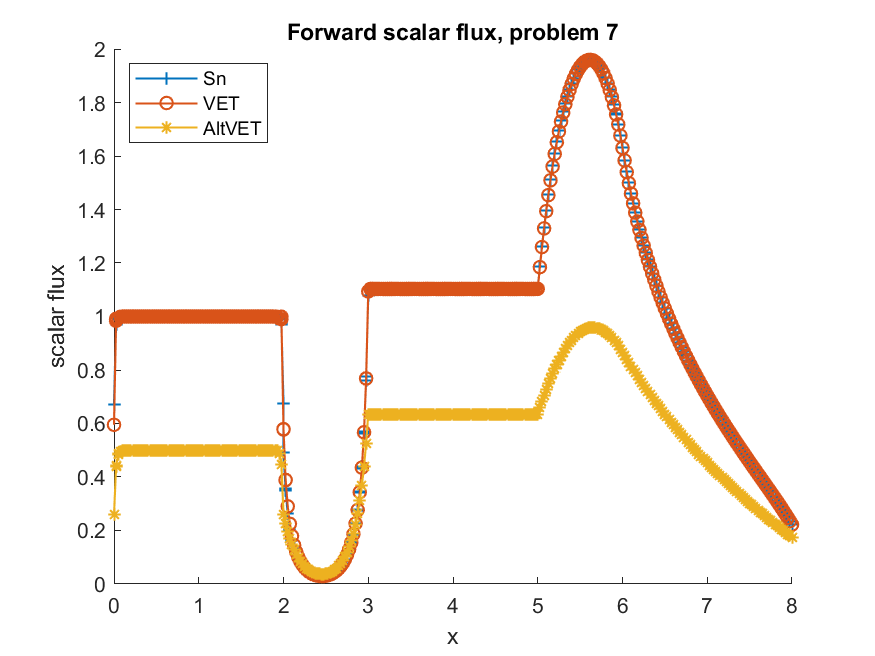
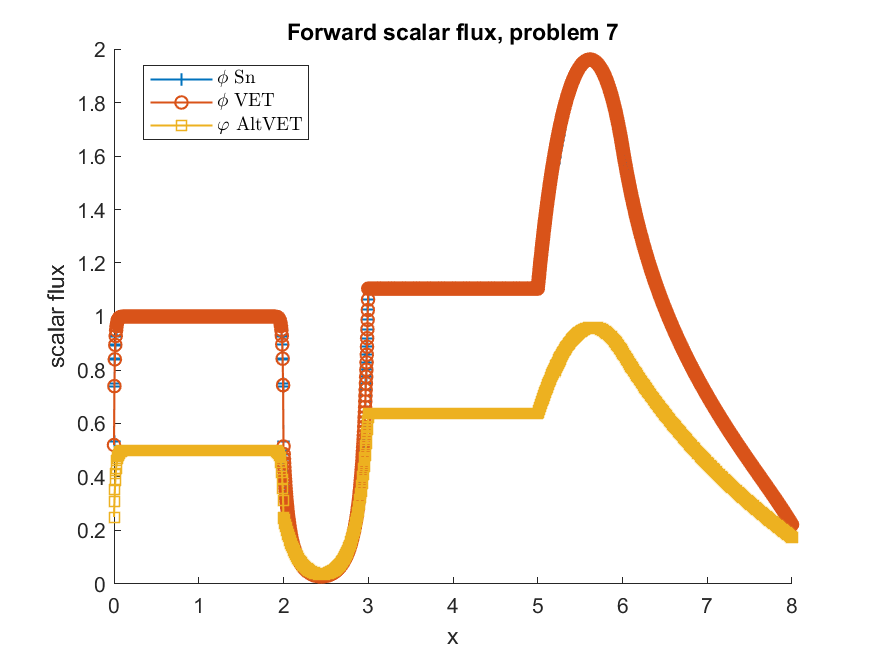
Resoved some comments, added in information and figure to layout flow of thesis, first crack at explaining solution methods used

Changed region(s): [[0.1234, 0.0915, 0.9257, 0.8841], [0.1543, 0.0915, 0.3394, 0.2134], [0.8023, 0.5793, 0.8331, 0.6402]]

diff --git a/docs/Thesis/QoI_Thesis.tex b/docs/Thesis/QoI_Thesis.tex
@@ -242,17 +242,29 @@ A potential solution to the memory requirement for the time-dependent transport 
 
 \jcr{at some point, you need to say: This Thesis is organized as follows: in Chapter xx, we discuss blabla. ...... FORESHADOW}
 
+
+In this work the typical transport adjoint method is formulated and the inner products required for sensitivity calculations are derived. Then a quasi-diffusion formulation is taken of the transport equation. This quasi-diffusion approach then undergoes an adjoint treatment to derive sensitivity inner products that do not require storing any angular fluxes. As a final method, a quasi-diffusion formulation is taken of the adjoint transport equation and a similar approach is taken in an attempt to derive anotehr set of inner products to use for sensitivity. Thee three regimes and the relation between them are shown in Figure~\ref{roadmap} 
+
+\begin{figure}[H]
+\label{roadmap}
+\centering
+  \includegraphics[scale=0.6]{figures2/RoadMap.png}
+  \caption{Diagram showing relations between various formulations in this thesis.}
+\end{figure}
+
+
 %%%%%%%%%%%%%%%%%%%%%%%%%%%%%%%%%%%%%%%%%%%%%%%%%%%%%%%%%%%%%%%%%%%%%%%%%%%%%%%%%%%%%%%%%%%
 \chapter{\uppercase {Background (Transport)}}
 %%%%%%%%%%%%%%%%%%%%%%%%%%%%%%%%%%%%%%%%%%%%%%%%%%%%%%%%%%%%%%%%%%%%%%%%%%%%%%%%%%%%%%%%%%%%%%%%%%%%
 \jcr{foreshadow: what is this chapter about? what will you discuss in the various sections ...?}
-%%%%%%%----------------------------------------------------------------------------------------------
-\section{Steady-state One-group Neutron Transport Equation}
-%%%%%%%----------------------------------------------------------------------------------------------
+
 \jcr{the first sentences actually need to go before the section. according to the section's title, this should be about the SS 1-g transport, not why you are looking at that model. that must come before. I am adding new lines to make it obvious where the break needs to be.}
 \jcr{is this the first time you use the term quasi-diffusion? if so, it clearly needs to be defined before, maybe in the introduction chapter}
 This work will focus on a relatively simple transport equation form, the one-group steady-state transport equation. Examination of effectiveness of an adjoint formalism using the quasi-diffusion approximation instead of the full transport solution in this setting will provide insight to the advantages and shortcomings of the technique when applied to multigroup, time-dependent transport equation. \jcr{you must mention that the appendix xyz contains a derivation of the time-dependent version approach where we think VET could be useful}
 
+%%%%%%%----------------------------------------------------------------------------------------------
+\section{Steady-state One-group Neutron Transport Equation}
+%%%%%%%----------------------------------------------------------------------------------------------
 
 The one-group steady-state transport equation with isotropic sources and isotropic scattering for a volume $V$ bounded by its surface $\partial V$ is given below.
 \begin{equation}
@@ -278,7 +290,9 @@ Frequently, the solution to the transport equation is not the sought after value
 \begin{equation}
 \qoi =  \int_V dV \int_{4 \pi} d \vO \,  R(\vr, \vO) \psi(\vr, \vO)
 \end{equation}
-The response function $R$ can take on physically defined forms, such as the cross section of a detector; or it may take a form of a mathematical construct, such as $R(\vr, \vO)=1/v$ to return the total number of neutrons present in the system. Another example is to let $R(\vr, \vO)=\sigma \chi(\vr)$ to obtain the total \tcr{reactor} in a portion of the domain ($\chi(\vr)=1$ if $\vr \in$ region of interest, and 0 otherwise). Note that the response function will frequently be expressed as $q^\dag$, the adjoint source, as we have already noted that there is a relationship between the solution, the adjoint solution, and their respective source terms. 
+The response function $R$ can take on physically defined forms, such as the cross section of a detector; or it may take a form of a mathematical construct, such as $R(\vr, \vO)=1/v$ to return the total number of neutrons present in the system. Another example is to let $R(\vr, \vO)=\sigma \chi(\vr)$ to obtain the total reaction rate in a portion of the domain ($\chi(\vr)=1$ if $\vr \in$ region of interest, and 0 otherwise). Note that the response function will frequently be expressed as $q^\dag$, the adjoint source, as we have already noted that there is a relationship between the solution, the adjoint solution, and their respective source terms. 
+
+\iwh{I didn't understand the single comment above, I this is was a weird typo that ended up a comment.}
 
 Two volumetric inner products are defined using  the $\braSN \bullet , \bullet \ketSN$ and $\bra \bullet , \bullet \ket$ notations. These two inner-products are for use with angular and scalar fluxes, respectively. 
 \begin{subequations}
@@ -333,7 +347,10 @@ as $\mathbf{A^\dag} \psi^\dag = q^\dag$, leading to an alternate expression of t
 adjoint solution $\psi^\dag $.
 \begin{equation}
 \label{genAdjQoI}
-\qoi = \braSN \psi, \scalResp \ketSN = \braSN q , \psi^\dag \ketSN + BC
+\qoi = \braSN \psi, \scalResp \ketSN 
+= \braSN \psi, \mathbf{A^\dag} \psi^\dag \ketSN 
+= \braSN \mathbf{A} \psi, \psi^\dag \ketSN + BC
+= \braSN q , \psi^\dag \ketSN + BC
 \end{equation} 
 From the above \jcr{what? where? there was no actual rigorous derivation above}, it follows that a first-order approximation to the change in the quantity of interest ($\delta \qoi$)
 based on perturbations to the initial system, including perturbation to the forward 
@@ -590,8 +607,9 @@ where the new boundary inner product for use with VET is defined as
 \begin{equation}
 \sbra \phi(\vr) , g(\vr)  \sket = \int_{\partial V} dS \, \phi (\vr) g (\vr)  \,.
 \end{equation}
-Note that we used the fact that the Eddington tensor is symmetric, $\Edd^T=\Edd$.
+A more detailed derivation of the boundary terms is given in appendix B. Note that we used the fact that the Eddington tensor is symmetric, $\Edd^T=\Edd$.
 \jcr{can you verified on the side, say for 2d $xy$ that the integration by parts does yield the boundary terms. I am worried about the successive $\cdot$'s.}
+\iwh{OK, I threw it in an appendix, I can just remove it if you think it is too extraneous} 
 This leads to the adjoint equation of the VET formulation, given in Eq.~\eqref{adjForm}. Of particular note is that the double divergence term present in the forward equation contributes to a double gradient term in the adjoint equation below. The VET adjoint solution is represented by $\vefadj$ to avoid confusion with $\phi^\dag$, which is the adjoint scalar flux from the SN transport  method. 
 
 \begin{equation}
@@ -641,9 +659,17 @@ As was done for the transport formulation, we consider perturbations to the syst
 the Eddington tensor may be altered as well. Because the Eddington tensor is an integrated quantity, we conjecture that it is 
 less prone to perturbations. The effects of perturbations on $\Edd$ are considered later.
 
-The perturbed VET forward problem is given below. A mean free path notation $\isigt=\frac{1}{\sigt}$ is used for the total
-cross section to allow the $\delta$ notation to be used in a straightforward fashion.
+A total mean free path notation $\isigt=\frac{1}{\sigt}$ is used for the total cross section to allow the $\delta$ notation to be used in a straightforward fashion. The relation between $\delta \isigt$ and $\delta \sigt$ is shown. 
+\begin{equation}
+\begin{split}
+\delta \isigt  = \ell_{t,p} - \isigt 
+ = \frac{1}{\sigt + \delta \sigt} - \frac{1}{\sigt} 
+ %= \frac{\sigt - (\sigt + \delta \sigt)}{\sigt (\sigt + \delta \sigt) } 
+ = \frac{ - \delta \sigt}{\sigt^2 + \sigt ( \delta \sigt) } 
+\end{split}
+\end{equation}
 \jcr{you end up with a formula that has $\delta \ell_t$. However, I have no idea how $\delta \ell_t$ is related to $\delta \sigt$. To clarify you must spell this out. It is also important when you will be doing perturbations and comparing SN and VET. People need to understand how the 2 detla's are related}
+The perturbed VET forward problem is given below.
 \begin{subequations}
 \begin{equation}
 \label{VEFPert}
@@ -669,12 +695,15 @@ A first-order perturbation approximation of Eq.~\eqref{VEFPert}
 \begin{equation}
 \label{QoIVETAdjNoBC}
 \begin{split}
-\qoi_p =& \bra \scalSource + \delta \scalSource + \div \delta \isigt \div \left( \Edd \phi_p \right) - \delta \siga \phi_p, \vefadj \ket - \sbra \phi_p, \Edd \cdot \isigt \grad \vefadj \sket + \sbra \vefadj, \isigt \div \Edd \phi_p \sket \\
-=& \bra q, \vefadj \ket  + \bra \delta \scalSource + \div \delta \isigt \div \left( \Edd \phi_p \right)  - \delta \siga \phi_p, \vefadj \ket \\
-& - \sbra \phi_p, \Edd \cdot \isigt \grad \vefadj \sket + \sbra \vefadj, \isigt \div \Edd \phi_p \sket 
+\qoi_p =& \bra \scalSource + \delta \scalSource + \div \delta \isigt \div \left( \Edd \phi_p \right) - \delta \siga \phi_p, \vefadj \ket - \sbra \phi_p, \vn \cdot \left(  \Edd \cdot \isigt \grad \vefadj \right) \sket \\ 
+&+ \sbra \vefadj, \vn \cdot \left(  \isigt \div \Edd \phi_p \right) \sket \\
+\approx & \bra q, \vefadj \ket  + \bra \delta \scalSource + \div \delta \isigt \div \left( \Edd \phi \right)  - \delta \siga \phi, \vefadj \ket \\
+& - \sbra \phi_p, \vn \cdot \left(  \Edd \cdot \isigt \grad \vefadj \right) \sket + \sbra \vefadj, \vn \cdot \left(  \isigt \div \Edd \phi_p \right) \sket \\
 \end{split}
 \end{equation}
 \jcr{I had to put 4 $_p$ to the phi's. otherwise the expression was wrong. Be rigorous in your derivations}
+\iwh{I had made a first order approximation of Eq.~\eqref{VEFPert}. I made this more explicit by saving the approximation for the 2nd step in the above}
+
 The first surface term in Eq.~\eqref{QoIVETAdjNoBC} 
 can be dealt with readily using the adjoint boundary condition ($\phi_p$ will be dealt with shortly). For the second surface term, we use a first-order approximation of the perturbed forward boundary condition  
 \[
@@ -685,10 +714,10 @@ can be dealt with readily using the adjoint boundary condition ($\phi_p$ will be
 Reporting back in the surface terms, we obtain:
 \begin{equation}
 \begin{split}
- - \sbra \phi_p, \Edd \cdot \isigt \grad \vefadj \sket  + \sbra \vefadj, \isigt \div \Edd \phi_p \sket 
-\approx&- \sbra \phi_p, 2J^{\dag,\text{out}} - B \vefadj \sket \\ 
-&+ \sbra \vefadj, 2 J_p^{\text{inc}} - B \phi_p - \delta \isigt \div \Edd \phi_p \sket \\
-=&- \sbra \phi_p, 2J^{\dag,\text{out}} \sket + \sbra \vefadj, 2 J_p^{\text{inc}} - \delta \isigt \div \Edd \phi \sket 
+ - \sbra \phi_p, \vn \cdot \left( \Edd \cdot \isigt \grad \vefadj \right) \sket  + \sbra \vefadj, \vn \cdot \left(  \isigt \div \Edd \phi_p \right) \sket 
+=&- \sbra \phi_p, 2J^{\dag,\text{out}} - B \vefadj \sket \\ 
+&+ \sbra \vefadj, 2 J_p^{\text{inc}} - B \phi_p - \vn \cdot \left( \delta \isigt \div \Edd \phi_p \right) \sket \\
+\approx&- \sbra \phi_p, 2J^{\dag,\text{out}} \sket + \sbra \vefadj, 2 J_p^{\text{inc}} - \vn \cdot \left( \delta \isigt \div \Edd \phi \right) \sket  
 \end{split}
 \end{equation}
 Note that the first-otder approximation was used in the first step. However, the last step is a true equality and we have exact cancelation of $\sbra \phi_p,B \vefadj \sket - \sbra \vefadj , B\phi_p\sket=0$.
@@ -700,7 +729,7 @@ Finally, a first-order expression for the sensitivity in the \qoi is as follows:
 \delta \qoi =& \qoi_p - \qoi \\ 
 =& \bra \delta \scalSource , \vefadj \ket - \bra \div \delta \isigt \div \left( \Edd \phi \right)  + \delta \siga \phi, \vefadj \ket 
 - \sbra \delta \phi, 2J^{\dag,\text{out}} \sket + \sbra \vefadj, 2 \delta J^{\text{inc}} \sket \\
-& - \sbra \vefadj, \delta \isigt \div \Edd \phi \sket \,.
+& - \sbra \vefadj, \vn \cdot \left( \delta \isigt \div \Edd \phi \right) \sket \,.
 \end{split}
 \end{equation}
 Again, it is advantageous to use $J^{\dag,\text{out}}=0$ in the adjoint boundary condition to remove a dependency on the 
@@ -717,6 +746,7 @@ perturbed forward VET solution. Integration by parts can be applied to condense 
 
 \section{Refinements on the VET Approach for Sensitivity Estimation}
 
+In this sections, attempts are made to reduce the error between the VET adjoint method and the transport adjoint method. In general, these come at the cost of extra solves, but still do not require storing angular fluxes. At the heart of it, the main source of difference between the two methods is the assumption that the Eddington remained unperturbed in the VET method, so we begin with examining Eddington perturbation ($\delta \Edd$) terms. 
 %%%%%%%----------------------------------------------------------------------------------------------
 \subsection{Error From Unperturbed Eddington Assumption}
 %%%%%%%----------------------------------------------------------------------------------------------
@@ -732,17 +762,16 @@ In addition to the first-order approximation common to adjoint formulations, the
 (\isigt + \delta \isigt) \vec{\nabla} \cdot \left((\Edd + \delta \Edd) \phi_p \right)  + (\BEdd +\delta \BEdd) \phi_p \ ,\quad \vr \in \partial V
 \end{equation}
 \end{subequations}
-The above can be substituted into Eq.~\eqref{VETSensDeriv} to yield an expanded $\qoi$ equation, including the Eddington perturbation terms
-\jcr{$_p$'s seem to be missing below sometimes (including maybe in \qoi as well)}
+The above can be substituted into Eq.~\eqref{VETSensDeriv} to yield an expanded $\qoi$ equation, including the Eddington perturbation terms. 
 \begin{equation}
 \label{QoIVETAdjNoBCEdd}
 \begin{split}
-\qoi =& \bra \scalSource + \delta \scalSource + \div \delta \isigt \div \left( \Edd \phi \right) + \div \isigt \div \left( \delta \Edd \phi \right) - \delta \siga \phi, \vefadj \ket \\
+\qoi_p = & \bra \scalSource + \delta \scalSource + \div \delta \isigt \div \left( \Edd_p \phi_p \right) + \div \ell_{t,p} \div \left( \delta \Edd \phi_p \right) - \delta \siga \phi, \vefadj \ket \\
 &- \sbra \phi_p, \Edd \cdot \isigt \grad \vefadj \sket 
 + \sbra \vefadj , \isigt \div \Edd \phi_p \sket
 \end{split}
 \end{equation}
-The boundary condition for the perturbed forward solution takes on a slightly more complex form, as the additional $\delta \Edd$ and $\delta \BEdd$ terms come into play, but the derivation of the sensitivity proceeds similarly to the case ignoring Eddington perturbations.
+The boundary condition for the perturbed forward solution takes on a slightly more complex form, as the additional $\delta \Edd$ and $\delta \BEdd$ terms come into play, but the derivation of the sensitivity proceeds similarly to the case ignoring Eddington perturbations. Once again a first order approximation is taken, and the 2nd adn 3rd order delta terms are ignored.
 \begin{equation}
 \label{QoIVETAdjEdd}
 \begin{split}
@@ -858,10 +887,10 @@ The above formulation also has a corresponding forward equation, with solution d
 \begin{subequations}
 \begin{equation}
 \label{ForwardVEFAlt}
-- \Edd^\dag : \grad \left( \frac{1}{\sigt}\grad \varphi \right) + \siga \varphi  = \angSource  \,.
+- \Edd^\dag : \grad \left( \frac{1}{\sigt}\grad \varphi \right) + \siga \varphi  = \angSource  \,
 \end{equation}
 \begin{equation}
-2 J^{\text{inc}}(\vr) = \BEdd^\dag(\vr) \varphi(\vr) + \Edd^\dag \cdot \frac{1}{\sigt} \grad \varphi  \,
+2 J^{\text{inc}}= \BEdd^\dag \varphi + \Edd^\dag \cdot \frac{1}{\sigt} \grad \varphi \quad \vr \in \bound \,.
 \end{equation} 
 \end{subequations}
 A new expression for the \qoi can be found by using Eq.~\eqref{AdjQoIAlt} and Eq.~\eqref{ForwardVEFAlt}, this time expressed using the $\varphi$.
@@ -885,9 +914,8 @@ For sensitivity, a perturbed adjoint $\phi^\dag_p$ is now considered. This is ex
 \begin{equation}
 - \div \left( (\isigt + \delta \isigt )\div \Edd^\dag \phi^\dag_p  \right)  +  (\siga + \delta \siga) \phi^\dag_p  =  4 \pi \scalResp + 4 \pi\delta \scalResp
 \end{equation}
-\jcr{$_p$ weirdly placed below}
 \begin{equation}
-2 J^{^\dag,\text{out}}(\vr) = \BEdd^\dag(\vr) \phi^\dag(\vr)_p  + \vn \cdot (\isigt + \delta \isigt) \div \Edd^\dag  \phi^\dag_p  \,.
+2 J^{^\dag,\text{out}} = \BEdd^\dag \phi^\dag_p  + \vn \cdot (\isigt + \delta \isigt) \div \Edd^\dag  \phi^\dag_p \quad \vr \in \bound \, .
 \end{equation}
 \end{subequations}
 An inner-product with $\varphi$ is taken and the perturbation terms are collected on the RHS leaving the original operator on the LHS.
@@ -939,15 +967,10 @@ The above relation can be combined with the unperturbed \qoi form derived in Eq.
 
 \iwh{There is actually something really strange going on with the Vet adjoint ``forward''  $\varphi$ equation boundary condition. The most natural way is to base it off of of the true forward incident $J$, but unless I am missing something there is actually some form of freedom there. The ramifications for this are most present in Test case 3 below, where the Alternate VET method is particularly bad at dealing with incident flux scenarios when cross sections are perturbed. Its maybe worth discussing in person at some point}.
 
-%%%%%%%%%%%%%%%%%%%%%%%%%%%%%%%%%%%%%%%%%%%%%%%%%%%%%%%%%%%%%%%%%%%%%%
-%%                           SECTION III
-%%%%%%%%%%%%%%%%%%%%%%%%%%%%%%%%%%%%%%%%%%%%%%%%%%%%%%%%%%%%%%%%%%%%%
-
-\chapter{\uppercase {Solution Methods}}
+\chapter{\uppercase {Results}}
 
 %%%%%%%%%%%%%%%%%%%%%%%%%%%%%%%%%%%%%%%%%%%%%%%%%%%%%%%%%%%%%%%%%%%%%%%%%%%%%%%%%%%%%%%%%%%%%%%%%%%%
-\section{Discrete Ordinates (SN) Transport}
-%%%%%%%%%%%%%%%%%%%%%%%%%%%%%%%%%%%%%%%%%%%%%%%%%%%%%%%%%%%%%%%%%%%%%%%%%%%%%%%%%%%%%%%%%%%%%%%%%%%%
+\subsection{Transport Solution Method}
 A discrete ordinates (SN) method can be used to solve the one group steady state transport 
 equation (Eq.~\eqref{SS1GTE}). The focus of this method is to discretize the angular variable 
 into discrete directions. Using an angular quadrature with $D$ directions $\vO_d$, the transport 
@@ -973,13 +996,15 @@ the angular flux and scalar flux are unknowns is solved iteratively, using sourc
 \end{equation}
 \end{subequations}
 Iteration terminates once $\left|\phi^{(\ell+1)} - \phi^{(\ell)} \right| \leq \text{Tol}$, which was set to $1E-8$ for this work.
-%%%%%%%%%%%%%%%%%%%%%%%%%%%%%%%%%%%%%%%%%%%%%%%%%%%%%%%%%%%%%%%%%%%%%%%%%%%%%%%%%%%%%%%%%%%%%%%%%%%%
-\section{Discontinuous Galerkin Finite Element Method}
-%%%%%%%%%%%%%%%%%%%%%%%%%%%%%%%%%%%%%%%%%%%%%%%%%%%%%%%%%%%%%%%%%%%%%%%%%%%%%%%%%%%%%%%%%%%%%%%%%%%%
-\todo{WORKING ON THIS WRITEUP}
-With angular discretization covered by SN, a spacial discretization and solution scheme in now needed both for the SN transport form shown in Eq.~\eqref{1gSNTE} and the various VET methods. A 1-d Discontinuous Galerkin (DG) Finite Element Method (FEM) was chosen. 
 
-\chapter{\uppercase {Results}}
+Each of the $D$ spatially dependent SN equations in Eq.~\eqref{1gTE} is then solved using a discontinuous up-winding approach \cite{ReedHill}. For this work the angular descritization used is $D=8$ are used and the spatial domain is descritized into 2000 uniform elements.
+
+
+
+%%%%%%%%%%%%%%%%%%%%%%%%%%%%%%%%%%%%%%%%%%%%%%%%%%%%%%%%%%%%%%%%%%%%%%%%%%%%%%%%%%%%%%%%%%%%%%%%%%%%
+\section{VET Solution Method}
+%%%%%%%%%%%%%%%%%%%%%%%%%%%%%%%%%%%%%%%%%%%%%%%%%%%%%%%%%%%%%%%%%%%%%%%%%%%%%%%%%%%%%%%%%%%%%%%%%%%%
+Solution of the quasi-diffusion VET formulations are performed using a modified version of the Discontinuous Galerkin (DG) method with an interior-penalty laid out in Arnold \cite{Arnold}. The modifications are required to support quasi-diffusion using $\Edd$ as opposed to simple neutron diffusion. Linear basis functions are used as the finite element basis. As was the case for transport SN, the spatial domain is descritized into 2000 uniform elements for the results shown if the following sections.
 
 %%%%%%%%%%%%%%%%%%%%%%%%%%%%%%%%%%%%%%%%%%%%%%%%%%%%%%%%%%%%%%%%%%%%%%%%%%%%%%%%%%%%%%%%%%%%%%%%%%%%
 \section{Trial Results}
@@ -1270,6 +1295,48 @@ f=- \div \left( \frac{1}{\sigt} \div \left( \Edd \phi \right) \right)  + (\siga)
 \end{equation}
 which is the steady state equation, and muse about how that term must be dealt with accurately to produce time evolution. 
 Doing sensitivity we want an operator $A \phi = b$ which the above isn't exactly due to the $\vec{J}$. In addition to $\Edd$ is is reasonable to store some vector value like $\vec{g}=\frac{\vec{J}}{\phi}$? That way there is a well defined $A$ operator to perform the adjoint process on.}
+
+\section{APPENDIX B: Detailed VET Boundary Term Derivation}
+Represent the value $\isigt \div \Edd \phi$ by some vector $\vec{v}$. 
+\begin{equation}
+\begin{split}
+- \bra \div \left( \isigt \div \Edd \phi \right), \vefadj \ket
+&= - \int_V dV \, \vefadj  \left( \div \left( \isigt \div \Edd \phi \right) \right) \\
+&= - \int_V dV \, \vefadj  \left( \div \vec{v}\right)
+\end{split}
+\end{equation}
+Then use a product rule $\div (\vec{v} \varphi^\dag) = \varphi^\dag (\div \vec{v}) + \vec{v} \cdot (\grad \varphi^\dag)  $. Use the divergence theorem on the $\div (\vec{v} \varphi^\dag)$ term to convert to a surface integral
+\begin{equation}
+\begin{split}
+- \int_V dV \, \vefadj  \left( \div \vec{v}\right) &= - \int_V dV \, \div (\vec{v} \varphi^\dag) + \int_V dV \, \vec{v} \cdot (\grad \varphi^\dag) \\
+&= - \oint_{\bound} dS \, (\vec{v} \varphi^\dag) \cdot \vn + \int_V dV \, \vec{v} \cdot (\grad \varphi^\dag) \\
+&= - \oint_{\bound} dS \, \left( \left( \isigt \div \Edd \phi \right) \varphi^\dag \right) \cdot \vn + \int_V dV \, \left( \isigt \div \Edd \phi \right) \cdot (\grad \varphi^\dag) \\
+&= - \sbra \left(  \isigt \div \Edd \phi \right)  \cdot \vn , \varphi^\dag\sket + \int_V dV \, \left( \isigt \div \Edd \phi \right) \cdot (\grad \varphi^\dag) \\
+\end{split}
+\end{equation}
+Turn focus to the remaining volume integral. Define the vector $\vec{u} = \isigt \grad \varphi^\dag$. Breakout $\Edd$ into component vectors $\vec{E}$ 
+\begin{equation}
+\begin{split}
+\int_V dV \, \left( \isigt \div \Edd \phi \right) \cdot (\grad \varphi^\dag) 
+& = \int_V dV \, \left( \div \Edd \phi \right) \cdot \vec{u} \\
+& = \int_V dV \, \sum_{n=x,y,z} \left( \div \vec{E}_n \phi \right) u_{n} \\
+& = \sum_{n=x,y,z} \int_V dV \, \left( \div \vec{E}_n \phi \right) u_{n} \\
+& = \sum_{n=x,y,z} \left[ \int_V dV \,  \div \left( \vec{E}_n \phi u_n \right) - \int_V dV (\vec{E}_n \phi) \cdot \grad u_n  \right] \\
+& = \sum_{n=x,y,z} \left[ \oint_{\bound} dS \,  \vec{E}_n \phi u_n \cdot \vn - \int_V dV (\vec{E}_n \phi) \cdot \grad u_n  \right] \\
+& = \oint_{\bound} dS \,  \phi \left( \vec{E} \cdot \vec{u} \right) \cdot \vn - \int_V dV \phi \left( \Edd : \grad \vec{u} \right) \\
+& = \oint_{\bound} dS \,  \phi \left( \vec{E} \cdot \isigt \grad \varphi^\dag \right) \cdot \vn - \int_V dV \phi \left( \Edd : \grad \isigt \grad \varphi^\dag \right) \\
+& = \sbra \phi , \vec{E} \cdot \isigt \grad \varphi^\dag \cdot \vn \sket - \bra \phi , \Edd : \grad \isigt \grad \varphi^\dag \ket \\
+\end{split}
+\end{equation}
+Putting everything together
+\begin{equation}
+\begin{split}
+- \bra \div \left( \isigt \div \Edd \phi \right), \vefadj \ket
+=& - \bra \phi , \Edd : \grad \isigt \grad \varphi^\dag \ket  
++ \sbra \phi , \vec{E} \cdot \isigt \grad \varphi^\dag \cdot \vn \sket  \\
+&- \sbra \left(  \isigt \div \Edd \phi \right)  \cdot \vn , \varphi^\dag \sket\\
+\end{split}
+\end{equation}
 
 %The next line is the format for inserting new sections.
 %Replace the name "newsection"  with the name of your

diff --git a/transport/DGFEM1D/multiSolve.m b/transport/DGFEM1D/multiSolve.m
@@ -14,7 +14,8 @@ today=datestr(now,'mmddyyHHMM');
 file=['DGFEM1D_prob',int2str(dat.pb_ID),'_',today,'.csv'];
 %filename=fullfile('C:\Users\Ian\checkout','output',file);
 %figurePath='C:\Users\Ian\checkout\QoI\docs\IanProposal\figures2';
-figurePath='C:\Users\Ian\Projects\QoI\docs\IanProposal\figures2';
+%figurePath='C:\Users\Ian\Projects\QoI\docs\IanProposal\figures2';
+figurePath='C:\Users\Ian\Projects\QoI\docs\Thesis\figures2';
 figureFolder='figures2';
 %filename=fullfile('E:\Storage\git_checkout','output',file);
 % outputMatrix=['pid' 'QoISNf' 'QoISNa' 'QoIVEFf' 'QoIVEFa'];

diff --git a/transport/DGFEM1D/load_input.m b/transport/DGFEM1D/load_input.m
@@ -96,7 +96,7 @@ switch pb_ID
         
     case 7 % Reed (5-zone problem)
         % number of elements per zone
-        nel_zone = [ 20 10 20 10 20]*4;
+        nel_zone = [ 10 10 10 10 10]*40;
         % width of each zone
         width_zone = [ 2 1 2 1 2 ];
         % sigt/sigs per zone

diff --git a/transport/DGFEM1D/sn1d.m b/transport/DGFEM1D/sn1d.m
@@ -86,8 +86,8 @@ displayUnpertQOI
 % [phiVEFa_alt]=solve_VEF(dat.adjoint_flux,Ea,Ebda);
 % do_plot(phiVEFa_alt,'VEF-alt',100,dat.adjoint_flux)
 
-singleSolve
-%multiSolve
+%singleSolve
+multiSolve
 %multiSurfaceSolve
 
 end
